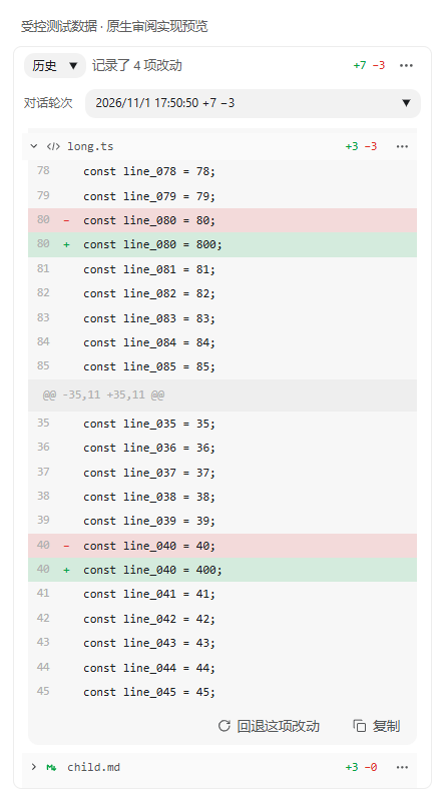
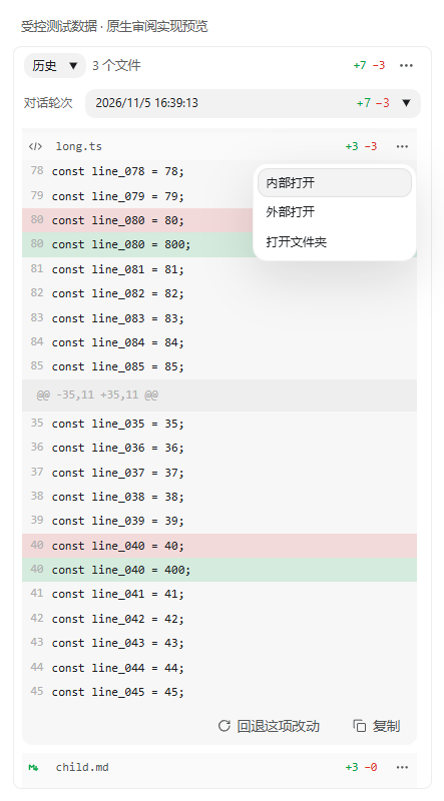
fix(review): correct file counts and stabilize history layout
Keep recorded line totals independent of preview availability and count
visible file groups rather than individual tool operations. Exclude groups
with no positive counters without deleting native snapshot evidence.

Preserve styled totals in the closed history selector and keep file headers
stable while expanding diffs. Place hover disclosures next to filenames
and remove the redundant sign column from numbered Review rows.

diff --git a/scripts/e2e/review-history.tsx b/scripts/e2e/review-history.tsx
@@ -39,6 +39,13 @@ async function until(predicate: () => boolean | Promise<boolean>, reason: string
 const action = (name: string, input?: unknown) => window.reviewFixture.action(name, input);
 Object.defineProperty(navigator, "clipboard", { value: { writeText: (text: string) => action("copy", text) } });
 const select = (label: string) => document.querySelector<HTMLSelectElement>(`select[aria-label="${label}"]`)!;
+function assertDisclosureFollowsFilename(header: HTMLElement) {
+  const path = header.querySelector<HTMLElement>('.review-change-card-path')!;
+  const text = document.createRange(); text.selectNodeContents(path);
+  const visibleTextRight = Math.min(path.getBoundingClientRect().right, text.getBoundingClientRect().right);
+  const gap = header.querySelector('.review-file-disclosure')!.getBoundingClientRect().left - visibleTextRight;
+  assert(gap >= 5 && gap <= 7, `Disclosure immediately follows the visible filename: gap=${gap}`);
+}
 function checkSelectStyle(node: HTMLSelectElement) {
   assert(node?.classList.contains('field-select'), 'Review restores the shared native Select');
   assert(getComputedStyle(node).appearance === 'base-select', 'Native picker supports local styling');
@@ -193,7 +200,18 @@ window.reviewProbe = async () => {
   }
   checks.push('native-review-select-sidebar-colors-and-outer-only-corners');
   await choose("对话轮次", seed.round); await ready();
-  assert(headers().length === 3, "Workspace, delegated and approved outside changes share one file list");
+  const recorded = await api.workspaceReviewChanges({ sessionId: seed.session.id, turnId: seed.round });
+  assert(recorded.changes.length === 5, "Zero-counter native evidence stays available in the Host response");
+  assert(headers().length === 3, "Workspace, delegated and approved outside changes share one file list, excluding the zero-counter file");
+  assert(!headers().some(header => header.textContent?.includes("zero-preview.txt")), "Both-zero file is absent from Review");
+  assert(document.querySelector('.review-summary')?.textContent === '3 个文件', 'Five records across four paths must report only the three positive-counter files');
+  checks.push("zero-counter-file-hidden-without-losing-native-evidence");
+  const selected = document.querySelector<HTMLElement>('.review-round-selected selectedcontent')!;
+  await until(() => selected?.textContent?.includes('+7') === true, 'Native selectedcontent reflects the chosen round');
+  const time = selected.querySelector<HTMLElement>('.review-turn-time')!, counts = selected.querySelector<HTMLElement>('.review-turn-counts')!;
+  assert(counts.getBoundingClientRect().left > time.getBoundingClientRect().right + 8, 'Closed selection keeps a gap before right-aligned counts');
+  assert(getComputedStyle(counts.querySelector('.diff-count-add')!).color !== getComputedStyle(counts.querySelector('.diff-count-del')!).color, 'Closed selection preserves add/delete colors');
+  assert(selected.getBoundingClientRect().right <= select('对话轮次').getBoundingClientRect().right - 12, 'Closed selected counts reserve the caret lane');
   assert(headers()[2].querySelector('.review-change-card-path')?.textContent === '.../review-open-tests-source.mjs', "Real outside Write shows only basename with three-dot prefix");
   assert(getComputedStyle(headers()[2].querySelector('.review-change-card-path')!).direction === 'ltr', "Outside prefix must stay before the filename visually");
   assert(headers()[2].title.includes('outside') && !headers()[2].title.includes('/workspace/'), "Outside title retains actual path, without prepending workspace");
@@ -212,15 +230,32 @@ window.reviewProbe = async () => {
   headers()[2].click(); await frame();
   checks.push('real-approved-outside-write-capture-display-and-safe-rollback');
   assert(headers()[0].textContent?.includes("long.ts"), "Files preserve original order");
+  const closedWidth = headers()[0].getBoundingClientRect().width;
+  const closedCountRight = headers()[0].querySelector('.diff-counts')!.getBoundingClientRect().right;
+  assert(getComputedStyle(scroller()).scrollbarGutter === 'stable', 'Scroller reserves its gutter before overflow');
+  assert(headers()[0].firstElementChild?.classList.contains('review-file-type'), 'File icon occupies the former left-disclosure space');
+  headers().forEach(assertDisclosureFollowsFilename);
+  await action('hoverReviewFile', true);
+  await until(() => getComputedStyle(headers()[0].querySelector('.review-file-disclosure')!).visibility === 'visible', 'Closed file reveals its right-facing disclosure on hover');
+  assert(getComputedStyle(headers()[0].querySelector('.review-file-disclosure svg')!).transform === 'none', 'Closed disclosure faces right');
   headers()[0].click();
   await until(() => document.querySelectorAll(".review-history-record").length === 2, "All same-file change records expand together");
   assert(document.querySelectorAll('.review-history-file-body .review-change-card-actions').length === 1, "One action bar per file");
   assert(document.querySelectorAll('.review-change-copy').length === 1 && document.querySelectorAll('.review-change-rollback').length === 1, "Exactly one copy and rollback for all operations");
   assert(!document.querySelector('.review-history-file-body')!.textContent?.includes('修改记录'), "No per-operation title");
+  assert(Math.abs(headers()[0].getBoundingClientRect().width - closedWidth) < 1, 'Expanding an overflowing diff cannot shrink file rows');
+  assert(Math.abs(headers()[0].querySelector('.diff-counts')!.getBoundingClientRect().right - closedCountRight) < 1, 'Statistics stay fixed when the vertical scrollbar appears');
+  assert(getComputedStyle(headers()[0].querySelector('.review-file-disclosure svg')!).transform !== 'none', 'Expanded disclosure faces down');
+  const labelRight = headers()[0].querySelector('.review-file-label')!.getBoundingClientRect().right;
+  assert(headers()[0].querySelector('.diff-counts')!.getBoundingClientRect().left - labelRight >= 11, 'Filename lane has a clear gap before statistics');
+  await action('hoverReviewFile', false);
+  await until(() => getComputedStyle(headers()[0].querySelector('.review-file-disclosure')!).visibility === 'hidden', 'Non-hovered disclosure disappears without consuming new space');
+  checks.push('file-count-closed-select-layout-and-reserved-scrollbar');
   checks.push('one-file-one-copy-and-rollback-no-record-titles');
   assert(!document.querySelector(".review-history-root"), "No extra execution-root row in the diff");
   for (const row of document.querySelectorAll('.review-change-diff .diff-line:not(.hunk)')) {
     assert(row.querySelectorAll('.review-line-number').length === 1, 'Inline diff has exactly one line-number gutter');
+    assert(!row.querySelector('.diff-line-sign'), 'Inline gutter has no redundant add/delete sign column');
     const gutter = row.querySelector('.review-line-number')!;
     assert(gutter.getAttribute('data-side') === (row.classList.contains('del') ? 'old' : 'new'), 'Single gutter preserves the correct source coordinate');
   }
@@ -243,6 +278,7 @@ window.reviewProbe = async () => {
   await action("screenshot", "review-normal.png");
   await action("resize", 420); await frame(); await frame();
   assert(scroller().getBoundingClientRect().width <= 420, "Narrow viewport applied");
+  headers().forEach(assertDisclosureFollowsFilename);
   assert(headers()[0].getBoundingClientRect().right <= window.innerWidth + 1, "Narrow header fits");
   assert(Math.abs(headers()[0].getBoundingClientRect().top - scroller().getBoundingClientRect().top - parseFloat(getComputedStyle(scroller()).paddingTop)) <= 2, "Narrow sticky header is visible");
   await fileMenu();

diff --git a/apps/desktop/src/styles/work-panel.css b/apps/desktop/src/styles/work-panel.css
@@ -961,8 +961,8 @@
   color: var(--ds-text-primary);
   font-size: var(--text-xs-plus);
 }
-.review-select option:first-child { border-start-start-radius: var(--radius-sm); border-start-end-radius: var(--radius-sm); }
-.review-select option:last-child { border-end-start-radius: var(--radius-sm); border-end-end-radius: var(--radius-sm); }
+.review-select option:first-of-type { border-start-start-radius: var(--radius-sm); border-start-end-radius: var(--radius-sm); }
+.review-select option:last-of-type { border-end-start-radius: var(--radius-sm); border-end-end-radius: var(--radius-sm); }
 .review-select option:hover,
 .review-select option:focus-visible {
   background: color-mix(in oklab, var(--ds-bg-sidebar) 92%, var(--ds-text-primary));
@@ -977,24 +977,30 @@
 .review-history-label { flex: 0 0 auto; white-space: nowrap; color: var(--ds-text-muted); font-size: var(--text-xs-plus); }
 .review-history-round-select { flex: 1; min-width: 0; padding: 3px 10px; }
 .review-history-round-select option { display: flex; align-items: center; }
+.review-history-round-select .review-round-selected { display: flex; align-items: center; flex: 1; min-width: 0; gap: 12px; padding: 0; min-height: 0; height: auto; border: 0; background: transparent; color: inherit; font: inherit; text-align: start; }
+.review-round-selected selectedcontent { display: flex; align-items: center; gap: 12px; flex: 1; min-width: 0; }
 .review-history-round-select option::checkmark { margin-inline-start: 0; }
 .review-turn-time { min-width: 0; overflow: hidden; text-overflow: ellipsis; white-space: nowrap; }
 .review-turn-counts { display: inline-flex; flex: 0 0 auto; gap: 4px; margin-inline-start: auto; white-space: nowrap; font-variant-numeric: tabular-nums; }
 .review-turn-counts.is-unknown { color: var(--ds-text-muted); font-size: var(--text-2xs); }
-.review-history .review-scroll { overflow-y: auto; overflow-x: auto; scroll-padding-top: 36px; }
+.review-history .review-scroll { overflow-y: auto; overflow-x: auto; scrollbar-gutter: stable; scroll-padding-top: 36px; }
 .review-history-file { position: relative; min-width: 0; scroll-margin-top: 4px; }
 .review-history-file-heading { position: sticky; top: 0; z-index: 2; display: flex; align-items: center; gap: 4px; background: var(--ds-bg-dock); }
 .review-history-file-header {
   display: flex; align-items: center;
-  justify-content: flex-start; gap: 6px; flex: 1; min-width: 0;
+  justify-content: flex-start; gap: 12px; flex: 1; min-width: 0;
   padding: 5px 6px; border: 0; border-radius: var(--radius-sm); background: transparent;
   color: var(--ds-text-primary); text-align: left; font-size: var(--text-xs-plus);
 }
-.review-file-disclosure { display: inline-flex; flex: 0 0 11px; }
+.review-file-label { display: flex; align-items: center; gap: 6px; flex: 1; min-width: 0; }
+.review-file-disclosure { display: inline-flex; flex: 0 0 11px; visibility: hidden; color: var(--ds-text-muted); }
+.review-history-file-header:hover .review-file-disclosure,
+.review-history-file-header:focus-visible .review-file-disclosure { visibility: visible; }
+.review-history-file-header .diff-counts { min-width: 70px; justify-content: flex-end; }
 .review-history-file.open .review-file-disclosure > svg { transform: rotate(90deg); }
 .review-history-file-header > svg, .review-history-file-header .diff-counts { flex-shrink: 0; }
-.review-history-file-header .review-change-card-path { flex: 1; min-width: 0; }
-.review-history-file-body { margin: 2px 0 8px 6px; border-radius: var(--radius-sm); background: var(--ds-tile); }
+.review-history-file-header .review-change-card-path { flex: 0 1 auto; min-width: 0; }
+.review-history-file-body { margin: 2px 0 8px; border-radius: var(--radius-sm); background: var(--ds-tile); }
 .review-history-record { min-width: 0; }
 .review-history .review-change-card-body-content { overflow: visible; max-height: none; }
 .review-line-number {

diff --git a/apps/desktop/src/components/workpanel/ReviewHistoryPanel.tsx b/apps/desktop/src/components/workpanel/ReviewHistoryPanel.tsx
@@ -1,4 +1,4 @@
-import { useEffect, useMemo, useRef, useState } from "react";
+import { createElement, useEffect, useMemo, useRef, useState } from "react";
 import { useTranslation } from "react-i18next";
 import type { ReviewChangesPage, ReviewContextLines, ReviewTurnsPage } from "@pi-desktop/shared";
 import { api } from "../../lib/api";
@@ -68,7 +68,7 @@ export function ReviewHistoryPanel({ sessionId }: { sessionId: string }) {
     finally { if (generation.current === version) setPaging(false); }
   };
   const selectedId = selection.turnId ?? (selection.snapshotId ? result.turnId ?? "" : "");
-  const count = files.reduce((sum, file) => sum + file.entries.length, 0);
+  const count = files.length;
   return <div className={`review-tab review-history${wrap ? "" : " is-nowrap"}`} aria-busy={loading}>
     <ReviewHistoryToolbar history={history} onHistory={value => {
       setHistory(value); setSelection(value && result.turnId ? { turnId: result.turnId } : {});
@@ -80,6 +80,9 @@ export function ReviewHistoryPanel({ sessionId }: { sessionId: string }) {
       <span className="review-history-label">{t("panel.review.historyTitle")}</span>
       <Select className="review-select review-history-round-select" value={selectedId || result.turnId || ""} aria-label={t("panel.review.historyTitle")}
         onChange={event => { setSelection({ turnId: event.target.value }); scroller.current?.scrollTo({ top: 0 }); }}>
+        <Button variant="ghost" className="review-round-selected" tabIndex={-1}>
+          {createElement("selectedcontent")}
+        </Button>
         {selectedId && !catalog.turns.some(turn => turn.id === selectedId) && <ReviewTurnOption turn={{ id: selectedId, createdAt: "" }} />}
         {catalog.turns.map(turn => <ReviewTurnOption key={turn.id} turn={turn} />)}
       </Select>

diff --git a/apps/desktop/src/components/workpanel/ReviewHistoryFile.tsx b/apps/desktop/src/components/workpanel/ReviewHistoryFile.tsx
@@ -26,7 +26,10 @@ export function ReviewHistoryFile({ file, sessionId, context, focusSeq, focusSna
   return <section className={cx("review-history-file", open && "open")} data-review-snapshots={file.entries.map(entry => entry.change.snapshotId).join(" ")}>
     <div className="review-history-file-heading">
     <Button variant="ghost" className="review-history-file-header" aria-expanded={open} aria-controls={detailsId} disabled={disabled} title={/^(?:[a-z]:[\\/]|[\\/])/i.test(file.path) || !file.root ? file.path : `${file.root}/${file.path}`} onClick={() => setOpen(value => !value)}>
-      <span className="review-file-disclosure"><IconChevronRight size={11} /></span><ReviewFileIcon path={file.path} /><span className="review-change-card-path" data-outside-path={reviewFilePathLabel(file.path) !== file.path || undefined}>{reviewFilePathLabel(file.path)}</span>
+      <ReviewFileIcon path={file.path} /><span className="review-file-label">
+        <span className="review-change-card-path" data-outside-path={reviewFilePathLabel(file.path) !== file.path || undefined}>{reviewFilePathLabel(file.path)}</span>
+        <span className="review-file-disclosure"><IconChevronRight size={11} /></span>
+      </span>
       <span className="diff-counts"><span className="diff-count-add">+{file.additions}</span><span className="diff-count-del">−{file.deletions}</span></span>
     </Button>
     <TooltipButton className="icon-btn review-file-menu-button" tooltip={t("panel.review.fileActions")} disabled={disabled} aria-haspopup="menu" aria-expanded={!!menu.contextMenu} onClick={event => menu.openContextMenu(event, { label: t("panel.review.fileActions"), anchor: "bottom-end", density: "compact", items: [

diff --git a/apps/desktop/src/components/ReviewChangeCard.tsx b/apps/desktop/src/components/ReviewChangeCard.tsx
@@ -99,9 +99,9 @@ export function ReviewChangeDetails({ message, compact = false, contextLines = 3
                     aria-label={reviewLineNumber(line) === null ? undefined : t(line.type === "del" ? "panel.review.oldLine" : "panel.review.newLine", { line: reviewLineNumber(line) })}>
                     {reviewLineNumber(line)}
                   </span>}
-                  <span className="diff-line-sign" aria-hidden>
+                  {!numbered && <span className="diff-line-sign" aria-hidden>
                     {line.type === "add" ? "+" : line.type === "del" ? "−" : " "}
-                  </span>
+                  </span>}
                   <span className="diff-line-text">{line.text}</span>
                 </div>
               ))}

diff --git a/apps/desktop/src/components/workpanel/ReviewHistoryToolbar.tsx b/apps/desktop/src/components/workpanel/ReviewHistoryToolbar.tsx
@@ -19,7 +19,7 @@ export function ReviewHistoryToolbar({ history, onHistory, count, additions, del
         <option value="last">{t("panel.review.previousRound")}</option>
         <option value="history">{t("panel.review.historyMode")}</option>
       </Select>
-      <span className="review-summary">{t("panel.review.changes", { count })}</span>
+      <span className="review-summary">{t("chat.toolChipFiles", { count })}</span>
       <span className="diff-counts review-toolbar-counts" aria-label={t("chat.reviewChangeCounts", { additions, deletions })}>
         <span className="diff-count-add">+{additions}</span><span className="diff-count-del">−{deletions}</span>
       </span>

diff --git a/apps/desktop/src/lib/review-history.ts b/apps/desktop/src/lib/review-history.ts
@@ -56,7 +56,7 @@ export function groupReviewFiles(rows: readonly ReviewHistoryChange[]): ReviewFi
     group.entries.push({ message: row.message, change });
     group.additions += change.additions; group.deletions += change.deletions;
   }
-  return [...groups.values()];
+  return [...groups.values()].filter(file => file.additions > 0 || file.deletions > 0);
 }
 
 export type ReviewReadRequest = { sessionId: string; turnId?: string; snapshotId?: string; offset?: number; limit?: number };

diff --git a/crates/host-core/src/rpc/review_rpc_tests.rs b/crates/host-core/src/rpc/review_rpc_tests.rs
@@ -787,19 +787,72 @@ async fn review_rollbacks_wait_for_active_host_file_mutations() {
 }
 
 #[tokio::test]
-async fn review_turn_totals_do_not_invent_binary_or_truncated_line_counts() {
+async fn review_turn_totals_match_saved_counts_even_when_previews_are_unavailable() {
     let f = Fixture::new().await;
     for (id, binary, truncated) in [("binary-round", true, false), ("large-round", false, true)] {
-        f.user(id, None).await;
+        f.user(&format!("{id}-user"), None).await;
         let mut change = f.capture(f.root.path(), id, id);
         change.binary = binary;
         change.truncated = truncated;
+        change.additions = 53;
+        change.deletions = 34;
         f.tool(id, json!(change), None, None).await;
     }
     let page = f.call("review.turns", json!({})).await;
+    assert_eq!(page["turns"].as_array().unwrap().len(), 2);
     for turn in page["turns"].as_array().unwrap() {
         assert_eq!(turn["changeCount"], 1);
-        assert!(turn["additions"].is_null());
-        assert!(turn["deletions"].is_null());
+        assert_eq!(turn["additions"], 53);
+        assert_eq!(turn["deletions"], 34);
     }
+}
+
+#[tokio::test]
+async fn review_turn_totals_reject_unsafe_sums_without_discarding_file_evidence() {
+    let f = Fixture::new().await;
+    f.user("unsafe-user", None).await;
+    for (id, additions) in [("safe-limit", 9_007_199_254_740_991_u64), ("overflow", 1)] {
+        let mut change = json!(f.capture(f.root.path(), id, id));
+        change["additions"] = json!(additions);
+        f.tool(id, change, None, None).await;
+    }
+    let page = f.call("review.turns", json!({})).await;
+    assert_eq!(page["turns"].as_array().unwrap().len(), 1);
+    assert_eq!(page["turns"][0]["changeCount"], 2);
+    assert!(page["turns"][0]["additions"].is_null());
+    assert!(page["turns"][0]["deletions"].is_null());
+    assert_eq!(
+        f.call("review.changes", json!({})).await["changes"]
+            .as_array()
+            .unwrap()
+            .len(),
+        2
+    );
+}
+
+#[tokio::test]
+async fn review_turn_totals_do_not_accept_missing_or_invalid_counters() {
+    let f = Fixture::new().await;
+    f.user("invalid-counts-user", None).await;
+    for (id, value) in [
+        ("missing-count", None),
+        ("negative-count", Some(json!(-1))),
+        ("string-count", Some(json!("53"))),
+    ] {
+        let mut change = json!(f.capture(f.root.path(), id, id));
+        if let Some(value) = value {
+            change["additions"] = value;
+        } else {
+            change.as_object_mut().unwrap().remove("additions");
+        }
+        f.tool(id, change, None, None).await;
+    }
+    assert_eq!(
+        f.call("review.turns", json!({})).await,
+        json!({"turns": []})
+    );
+    assert_eq!(
+        f.call("review.changes", json!({})).await["changes"],
+        json!([])
+    );
 }

diff --git a/crates/host-core/src/review/query.rs b/crates/host-core/src/review/query.rs
@@ -280,14 +280,9 @@ fn collect(db: &Database, session_id: &str, workspace_root: Option<&Path>) -> Re
                 project(db, session_id, record, block, raw, workspace_root)?
             {
                 if seen.insert(snapshot.clone()) {
-                    // Sum only deduplicated successful evidence. Original preview limits
-                    // mean unknown counts; transport-only hunk trimming does not.
+                    // Match the file list: sum the saved counters once per snapshot.
+                    // Preview availability is independent of these recorded values.
                     turns[turn].totals = turns[turn].totals.and_then(|(adds, dels)| {
-                        if raw.get("binary").and_then(Value::as_bool) == Some(true)
-                            || raw.get("truncated").and_then(Value::as_bool) == Some(true)
-                        {
-                            return None;
-                        }
                         let additions = adds.checked_add(raw.get("additions")?.as_u64()?)?;
                         let deletions = dels.checked_add(raw.get("deletions")?.as_u64()?)?;
                         (additions <= 9_007_199_254_740_991 && deletions <= 9_007_199_254_740_991)

diff --git a/docs/spec/04-ux/08-component-spec.md b/docs/spec/04-ux/08-component-spec.md
@@ -4650,9 +4650,15 @@ independent of the chat's loaded message window. Rounds without changes do not
 replace Latest. Main and delegated Write/Edit evidence share a file list; actual
 execution roots distinguish identically named files. The file header opens all
 of that file's recorded operations in order, without claiming a net diff.
+The toolbar counts visible distinct root/path file groups, not operation records.
+A file group appears only when its recorded additions or deletions are greater
+than zero. Groups with both counters zero are hidden, including preview-limited
+records, and excluded from the toolbar file count. This presentation filter does
+not delete native evidence or omit operations from a retained file group.
 
 Expanded file content has no fixed-height inner viewport or vertical scrollbar.
-The outer Review scroll owns vertical travel; the current file header sticks
+The outer Review scroll reserves its vertical scrollbar gutter before overflow
+and owns vertical travel; the current file header sticks
 below the toolbar within its file section. It is not reordered. A borderless ellipsis button after the summary totals opens a menu containing
 only Word wrap and Context lines. Hovering Context lines opens a secondary
 menu with 1/3/5 (first-use default 3); the choice is profile-wide, remembered
@@ -4662,9 +4668,15 @@ No context selector is shown in the main toolbar.
 Toggle checks appear on the right. History options show date/time on the left
 and Host-recorded added/deleted line totals on the right, before the check.
 Totals count each successful native operation once, including delegated evidence,
-and do not claim a net diff. Binary, originally truncated or missing counts show
-unknown instead of invented zeros. The selector reserves arrow space. File headings have no permanent
-button fill or border; execution roots are not rendered as extra diff rows.
+and do not claim a net diff. Binary/truncated preview flags do not erase saved
+valid counters; absent or unsafe totals show unknown instead of invented zeros.
+The closed selector preserves the same left date/time and right green/red totals
+before its arrow. File headings have no permanent button fill or border; their
+file icon leads the row. A reserved disclosure slot immediately follows the
+visible filename, including an ellipsized name, before the right-aligned statistics.
+It appears on hover or keyboard focus, pointing right
+when closed and down when open, without moving content. Filename and statistics
+have a visible gap; execution roots are not rendered as extra diff rows.
 A separate file ellipsis offers Open internally (disabled without the loaded
 File Manager view; never auto-enables it), Open externally (OS default app),
 and Open folder (system file manager, revealing the current file).
@@ -4700,7 +4712,9 @@ when space is insufficient they flip above and clamp within the viewport.
 Pointer position within a button cannot move the menu. They remain body portals,
 and ordinary right-click menus retain pointer placement.
 Diff rows have one line-number gutter: deletions use old coordinates, additions
-and context use new coordinates; EOF markers have no number. Word wrap toggles wrapping without
+and context use new coordinates; EOF markers have no number. Numbered Review
+rows omit the separate add/delete sign column but retain change backgrounds and
+summary signs; chat inline rows are unchanged. Word wrap toggles wrapping without
 introducing nested vertical scrolling. Unsupported
 historical context has an explicit explanation and retains recorded evidence.
 Remote Review retains its existing presentation. Chat inline review rows retain

diff --git a/docs/spec/06-delivery/04-e2e-test-plan.md b/docs/spec/06-delivery/04-e2e-test-plan.md
@@ -19965,7 +19965,19 @@ Scenario: E2E-REVIEW-ROUNDS (local desktop, implemented)
   normal/narrow layouts; copy and conflict protection survive; history restores.
   Toggle checks trail labels, summary dots have no circle, history options contain
   date/time plus true per-round recorded totals before the check and fit an
-  arrow-safe field. Unknown/binary/oversized counts are not shown as zero.
+  arrow-safe field, including colored right-aligned totals when closed.
+  The summary counts visible files rather than operation records (five records
+  across four paths, including one zero-counter preview-limited file, show three
+  files). Only file groups with additions or deletions greater than zero remain;
+  both-zero groups are hidden and excluded from the summary, while raw Host
+  evidence and each retained file's complete operation chain remain available.
+  Missing/unsafe totals are not invented as zero;
+  Host regressions retain saved valid counters despite binary/truncated previews.
+  Expanding a long diff does not move header widths or statistics because the
+  outer scrollbar gutter is reserved. File icons lead; the reserved disclosure
+  immediately after the visible filename appears only on hover/focus, right when closed and down
+  when expanded, with a clear gap before statistics. Numbered diff rows have no
+  independent add/delete sign column.
   File headers have no idle
   fill, and no execution-root row appears. File menus disable internal open when
   the plugin is absent, open its loaded view when available, and pass the resolved

diff --git a/docs/spec/03-runtime/06-host-rpc-protocol.md b/docs/spec/03-runtime/06-host-rpc-protocol.md
@@ -1540,8 +1540,9 @@ automatically replayed. See the Host file admission ADR for lifecycle and limits
   Source `details.root` is preserved; workspace-relative and non-workspace
   absolute paths retain distinct identities. Limit is bounded to 100; title is a short excerpt.
   Added/deleted totals sum deduplicated successful operation evidence, not a net
-  diff. Originally truncated/binary records or unsafe totals yield null for both
-  counts. Transport-only hunk trimming does not discard known counts. Older
+  diff. Saved valid counters remain available even when binary/truncated previews
+  are unavailable. Unsafe totals yield null for both counts; malformed evidence
+  remains filtered. Preview trimming does not discard known counts. Older
   Hosts may omit these additive fields; consumers show unknown.
 - `review.changes({sessionId, turnId?, snapshotId?, offset?, limit?})` returns
   `turnId`, `changes: [{message, root?}]`, and optional `nextOffset`. Without a
